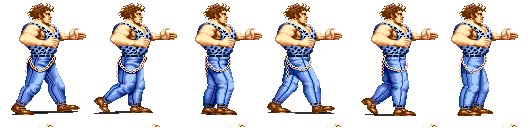
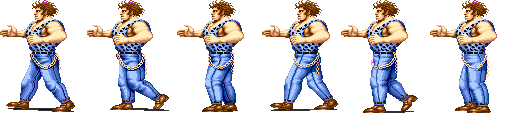
Added andore walking sprites

diff --git a/BeatEmUp/BeatEmUp/source/Enemy.cpp b/BeatEmUp/BeatEmUp/source/Enemy.cpp
@@ -3,8 +3,10 @@
 #include "Player.h"
 
 
-const int RANGE = 2 * GAME.ClientWidth();
 
+#pragma region Rock
+
+const float Rock::Range(2.0f * (float)GAME.ClientWidth());
 
 
 Rock::Rock(const string& file, SDL_Renderer* const renderer)
@@ -15,13 +17,12 @@ Rock::Rock(const string& file, SDL_Renderer* const renderer)
 	texture = SDL_CreateTextureFromSurface(renderer, surf.surface);
 	
 	speed = 10.0f;
-	position.x = (float)RANGE;
+	position.x = Range;
 	position.w = (float)surf.surface->w;
 	position.h = (float)surf.surface->h;
 	position.y = (float)GAME.player->Position().y + 20;
 	AdjustZToGameDepth();
 }
-
 
 
 void Rock::Update()
@@ -37,11 +38,11 @@ void Rock::Update()
 		xVel = speed;
 	}
 
-	if(position.x >= RANGE)
+	if(position.x >= Range)
 	{
 		SetDirection(Left);
 	}
-	else if(position.x < -RANGE)
+	else if(position.x < -Range)
 	{
 		SetDirection(Right);
 	}
@@ -52,14 +53,12 @@ void Rock::Update()
 }
 
 
-
 void Rock::Draw(SDL_Renderer* const renderer) const
 {
 	SDL_Rect nPos;
 	util::Convert(position, nPos);
 	SDL_RenderCopyEx(renderer, texture, NULL, &nPos, GetAngle(), NULL, SDL_FLIP_NONE);
 }
-
 
 
 Rock::~Rock()
@@ -73,6 +72,83 @@ Rock::~Rock()
 	logPrintf("Rock object released");
 }
 
+#pragma endregion
 
+
+
+Andore::Andore(SDL_Renderer* const renderer, Sprite* walkLeftSprite, Sprite* walkRightSprite
+	, float posX, float posY)
+	: GameObject(GT_Enemy)	
+	, walkRight(walkRightSprite)
+	, walkLeft(walkLeftSprite)
+	, current(NULL)
+{
+	position.x = posX, position.y = posY, position.w = (float)walkLeft->Position().w;
+	position.h = (float)walkLeft->Position().h;
+	speed = 1.0f;
+	AdjustZToGameDepth();
+}
+
+
+void Andore::Update()
+{
+	if(position.x <= 0)
+	{
+		SetDirection(Right);
+		xVel = speed;
+	}
+	else if(position.x + position.w > GAME.ClientWidth())
+	{
+		SetDirection(Left);
+		xVel = -speed;
+	}
+
+	Translate(true);
+
+	//Propagate to the underlying currently active sprite
+	current->Position().x = position.x;
+	current->Position().y = position.y;
+	current->Update();
+}
+
+
+void Andore::Draw(SDL_Renderer* const renderer) const
+{
+	current->Draw(renderer);
+}
+
+
+Andore::~Andore()
+{
+	util::Delete(walkRight);
+	util::Delete(walkLeft);
+
+	logPrintf("Andore object released");
+}
+
+
+void Andore::SetDirection(Directions dir)
+{
+	GameObject::SetDirection(dir);
+	if (GetDirection() == Right) current = walkRight;
+	else if(GetDirection() == Left) current = walkLeft;
+}
+
+
+void Andore::Stop()
+{
+	xVel = yVel = 0;
+	current->SetStill();
+}
+
+
+void Andore::Translate(bool anim)
+{
+	current->SetAnimation(anim);
+	position.x += xVel;
+	position.y += yVel;
+	logPrintf("Andore Translate: Pos {%d, %d}", (int)position.x, (int)position.y);
+	AdjustZToGameDepth();
+}
 
 

diff --git a/BeatEmUp/BeatEmUp/source/Game.cpp b/BeatEmUp/BeatEmUp/source/Game.cpp
@@ -10,9 +10,10 @@ Game::Game()
 	, "Nasir's Beat 'em Up Game")
 	, MoveBounds(0.0f, 370.0f, (float)SCREEN_WIDTH, 120.0f)
 	, bg(NULL)
-	, tbFps(NULL), tbPlayerPos(NULL)
+	, tbFps(NULL), tbPlayerPos(NULL), tbEnemyPos(NULL)
 	, skaterboy(NULL)
 	, player(NULL)
+	, andore(NULL)
 	, leftDown(false)
 	, rightDown(false)
 	, upDown(false)
@@ -47,22 +48,30 @@ bool Game::Init()
 		5000, 450, -5000, 5000, false);
 
 
+	andore = new Andore(renderer_, 
+		Sprite::FromFile("resources/andore_walkleft.png", renderer_, 84, 124, 10, 3),
+		Sprite::FromFile("resources/andore_walkright.png", renderer_, 88, 130, 10, 3), 
+		-100, 450);
+
+
 	player = new Player(renderer_);
-	rock = new Rock("resources/rock.png", renderer_);
+	//rock = new Rock("resources/rock.png", renderer_);
 
 	tbFps = new TextBlock("FPS: 00.000000", 16, 0.0f, 0.0f, renderer_);	
 	tbPlayerPos = new TextBlock("Pos {}", 16, 0.0f, tbFps->Position().bottom() + 1, renderer_);
+	tbEnemyPos = new TextBlock("Enemy Pos {}", 16, 0.0f, tbPlayerPos->Position().bottom() + 1, renderer_);
 
 	gameObjects.push_back(bg);
 	gameObjects.push_back(tbFps);
 	gameObjects.push_back(tbPlayerPos);
+	gameObjects.push_back(tbEnemyPos);
 
 	gameObjects.push_back(skaterboy);
 	gameObjects.push_back(player);
-	gameObjects.push_back(rock);
+	//gameObjects.push_back(rock);
 
 	gameObjects.push_back(knight1);
-
+	gameObjects.push_back(andore);
 	//MIXER.Play(Mixer::ST_Track1);
 	return true;
 }
@@ -149,6 +158,14 @@ void Game::Update()
 		<< "," << (int)player->Position().z 
 		<< "}  Health: " << player->GetHealth();
 	tbPlayerPos->SetText(ss.str());
+	ss.str("");
+	ss.clear();
+	ss << "Enemy Pos: {" << (int)andore->Position().x 
+		<< "," << (int)andore->Position().y 
+		<< "," << (int)andore->Position().z 
+		<< "}  Health: " << andore->GetHealth();
+	tbEnemyPos->SetText(ss.str());
+
 
 	//Other game logic
 	gameObjects.Update();

diff --git a/BeatEmUp/BeatEmUp/include/Enemy.h b/BeatEmUp/BeatEmUp/include/Enemy.h
@@ -13,9 +13,33 @@ public:
 	virtual void Update() override;
 	virtual void Draw(SDL_Renderer* const renderer) const override;
 
+public:
+	static const float Range;
+
 private:
 	SDL_Texture* texture;
 };
 
 
 
+class Andore : public GameObject
+{
+public:
+	Andore(SDL_Renderer* const renderer, Sprite* walkLeftSprite, Sprite* walkRightSprite
+		, float posX, float posY);
+	virtual void Update() override;
+	virtual void Draw(SDL_Renderer* const renderer) const override;
+	virtual ~Andore();
+	virtual void SetDirection(Directions dir) override;
+	void Stop();
+
+
+private:
+	void Translate(bool anim = true);
+
+
+private:
+	Sprite* walkRight;
+	Sprite* walkLeft;
+	Sprite* current;
+};

diff --git a/BeatEmUp/BeatEmUp/include/Game.h b/BeatEmUp/BeatEmUp/include/Game.h
@@ -26,10 +26,11 @@ public:
 	//Game objects
 	GameObjectList gameObjects;
 	Background* bg;
-	TextBlock* tbFps, *tbPlayerPos;
+	TextBlock *tbFps, *tbPlayerPos, *tbEnemyPos;
 	Player* player;
 	Rock* rock;
 	Roamer* skaterboy;
+	Andore* andore;
 
 private:
 	bool leftDown;

diff --git a/BeatEmUp/BeatEmUp/source/Roamer.cpp b/BeatEmUp/BeatEmUp/source/Roamer.cpp
@@ -2,7 +2,6 @@
 
 
 
-
 Roamer::Roamer(SDL_Renderer* const renderer, Sprite* walkLeftSprite, Sprite* walkRightSprite
 	, float posX, float posY, float roamMinX_, float roamMaxX_,  bool backgroundObj)
 	: GameObject(GT_Background)	
